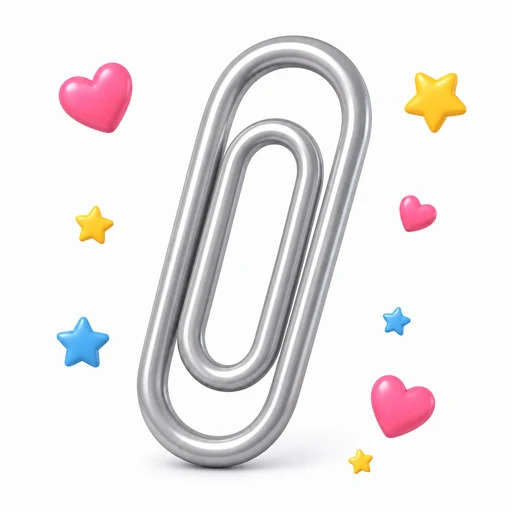
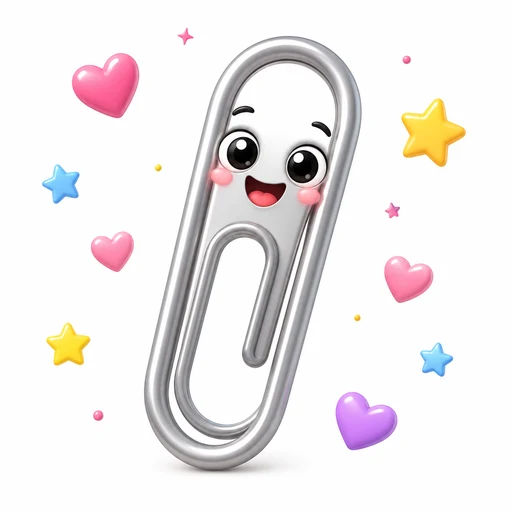
clip: zamena sa varijantom sa licem (korisnica izabrala; ChatGPT 3D cartoon, 512x512 webp)
- napomena: svesno odstupanje od pravila 'bez lica na predmetima' — samo za ovu ilustraciju, po odluci vlasnice

- SW bump v29 -> v30

diff --git a/public/sw.js b/public/sw.js
@@ -1,4 +1,4 @@
-const CACHE_NAME = "catala-v29";
+const CACHE_NAME = "catala-v30";
 const STATIC_ASSETS = [
   "/",
   "/manifest.json",
